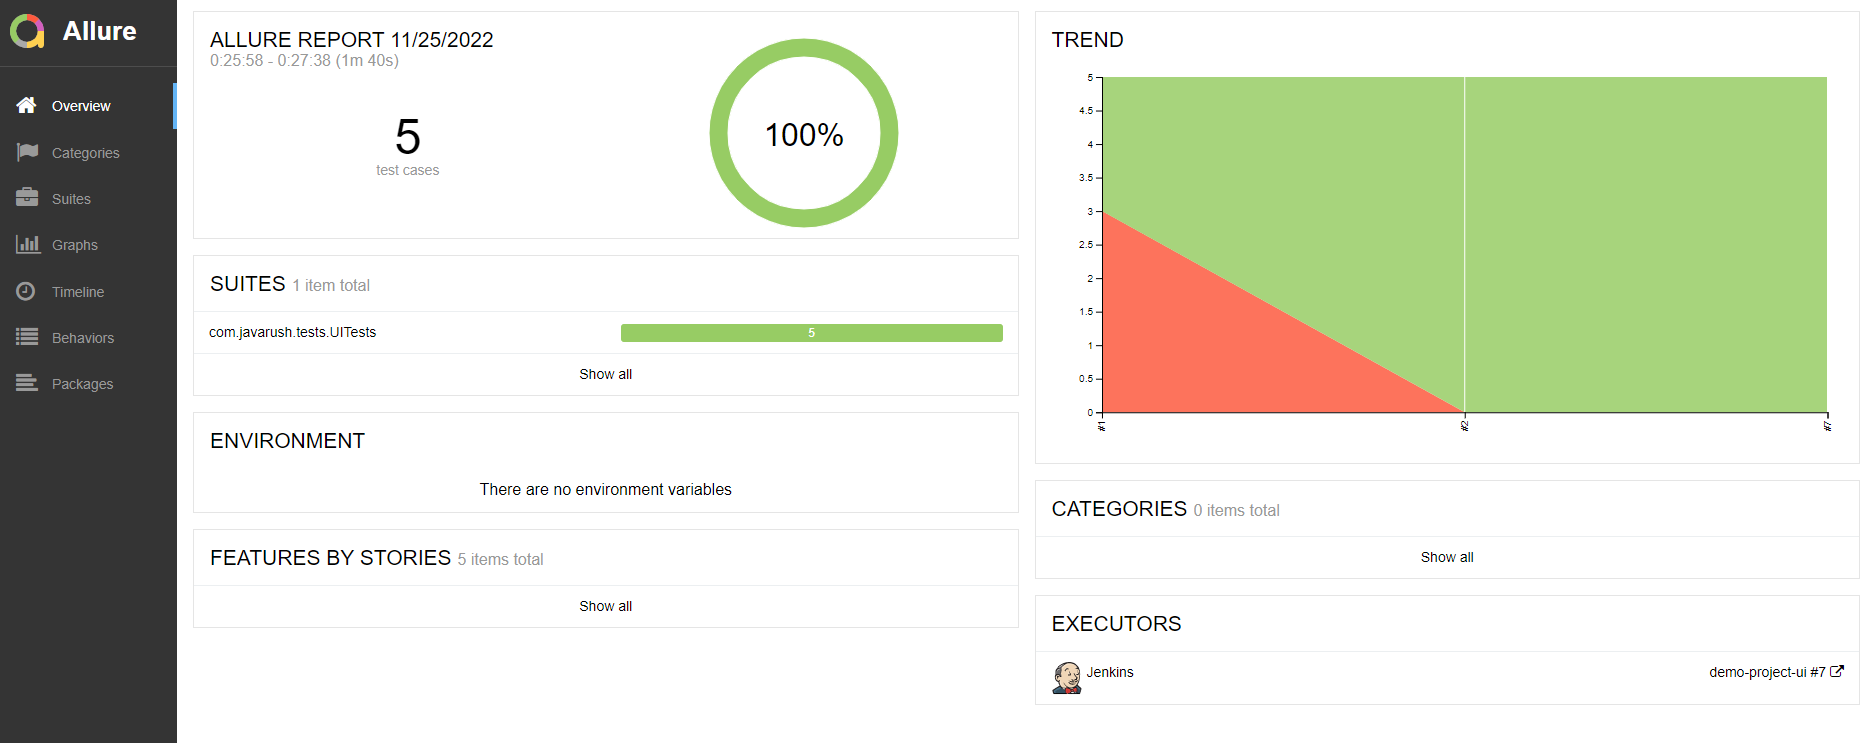
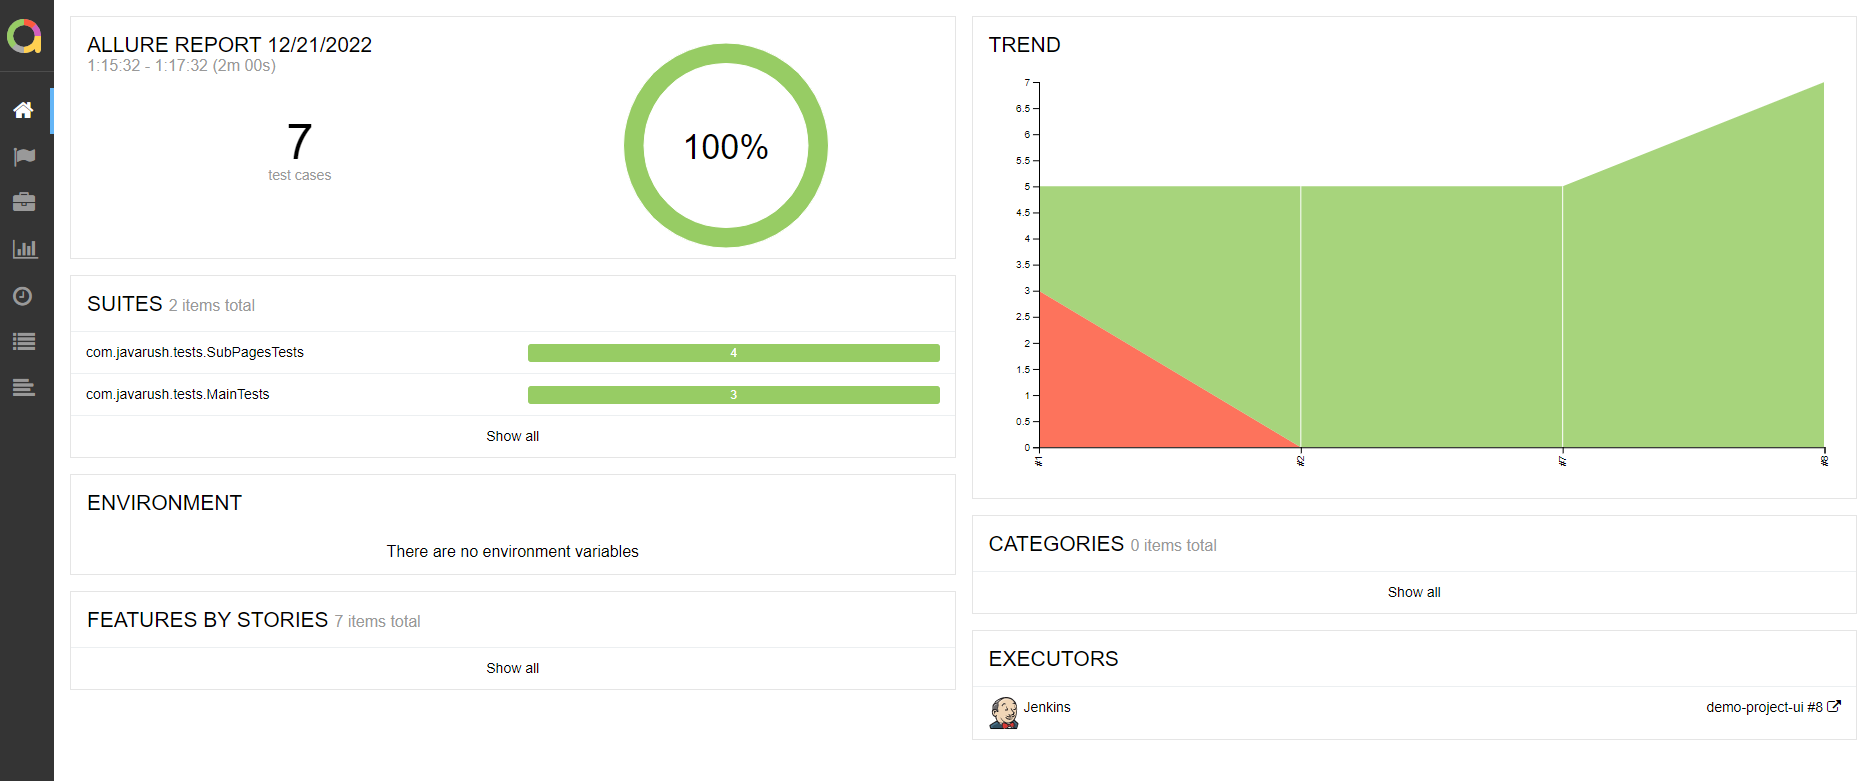
README.md updated

diff --git a/README.md b/README.md
@@ -21,6 +21,8 @@
 - Тест фильтрации пользователей
 - Тест страницы Задачи
 - Тест регистрации пользователей через UI
+- Тест поиска на странице задачи
+- Тест смены темы страницы
 
 
 ## :wrench: Стек
